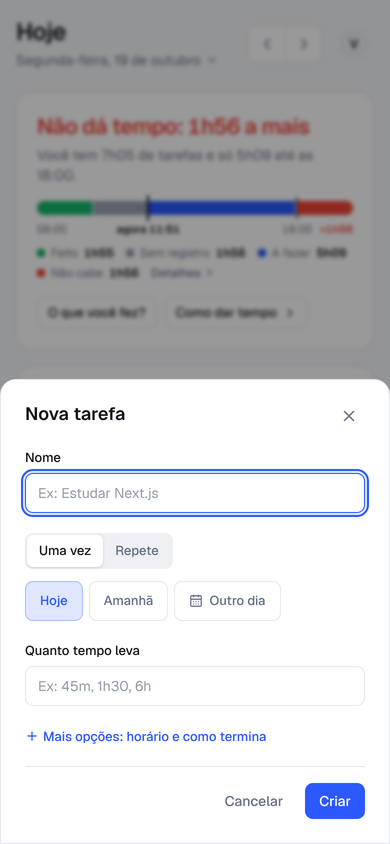
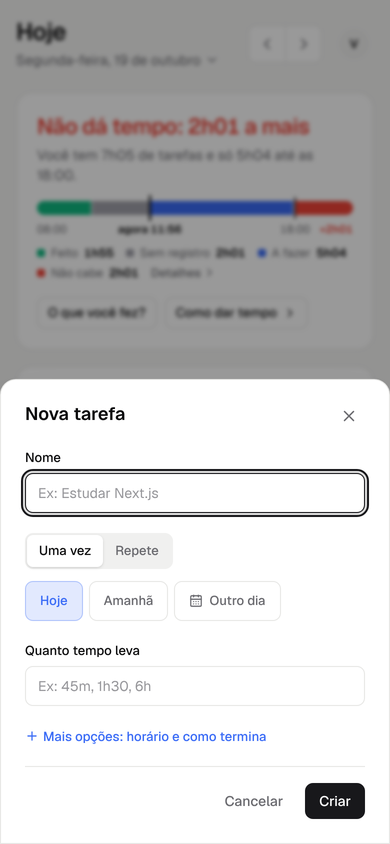
design: identidade Grafite (ações em preto, cor só para informação)
Claude-Session: https://claude.ai/code/session_011nKegygvConS1RQqhHr1hx

diff --git a/src/components/App.tsx b/src/components/App.tsx
@@ -157,7 +157,7 @@ export function Shell() {
         {collapsed ? (
           <button
             onClick={() => editTask({ repeat: "once", date })}
-            className="mt-6 grid h-10 w-10 place-items-center rounded-lg bg-brand text-white hover:bg-brand/90"
+            className="mt-6 grid h-10 w-10 place-items-center rounded-lg bg-brand text-brand-ink hover:bg-brand/90"
             aria-label="Nova tarefa"
             title="Nova tarefa"
           >
@@ -178,7 +178,7 @@ export function Shell() {
               className={cx(
                 "flex items-center gap-3 rounded-lg text-sm font-medium transition-colors",
                 collapsed ? "h-10 w-10 justify-center" : "w-full px-3 py-2",
-                isActive(t.id) ? "bg-todo/10 text-todo" : "text-muted hover:bg-sunken hover:text-ink",
+                isActive(t.id) ? "bg-sunken text-ink" : "text-muted hover:bg-sunken hover:text-ink",
               )}
             >
               <t.icon size={18} /> {!collapsed && t.label}
@@ -277,7 +277,7 @@ export function Shell() {
           className="flex flex-1 flex-col items-center gap-0.5 py-1 text-[11px] font-medium text-muted"
           aria-label="Nova tarefa"
         >
-          <span className="grid h-6 w-6 place-items-center rounded-full bg-brand text-white">
+          <span className="grid h-6 w-6 place-items-center rounded-full bg-brand text-brand-ink">
             <Plus size={16} strokeWidth={2.5} />
           </span>
           Nova
@@ -311,7 +311,7 @@ function LoadingSkeleton() {
 
 function MobileTab({ active, onClick, icon: Icon, label }: { active: boolean; onClick: () => void; icon: typeof Sun; label: string }) {
   return (
-    <button onClick={onClick} className={cx("flex flex-1 flex-col items-center gap-0.5 py-1 text-[11px] font-medium", active ? "text-todo" : "text-muted")}>
+    <button onClick={onClick} className={cx("flex flex-1 flex-col items-center gap-0.5 py-1 text-[11px] font-medium", active ? "text-ink" : "text-muted")}>
       <Icon size={20} />
       {label}
     </button>

diff --git a/src/components/FocusView.tsx b/src/components/FocusView.tsx
@@ -260,7 +260,7 @@ export function FocusView({ initialTaskId = "" }: { initialTaskId?: string }) {
         {!t ? (
           <button
             onClick={() => timer.start(taskId, mode)}
-            className="flex h-14 w-full items-center justify-center gap-2 rounded-full bg-brand text-base font-semibold text-white hover:bg-brand/90"
+            className="flex h-14 w-full items-center justify-center gap-2 rounded-full bg-brand text-base font-semibold text-brand-ink hover:bg-brand/90"
           >
             <Play size={15} fill="currentColor" /> Começar
           </button>
@@ -268,7 +268,7 @@ export function FocusView({ initialTaskId = "" }: { initialTaskId?: string }) {
           <div className="space-y-2">
             <button
               onClick={() => startWaiting(uid, settings)}
-              className="flex h-14 w-full items-center justify-center gap-2 rounded-full bg-brand text-base font-semibold text-white hover:bg-brand/90"
+              className="flex h-14 w-full items-center justify-center gap-2 rounded-full bg-brand text-base font-semibold text-brand-ink hover:bg-brand/90"
             >
               <Play size={15} fill="currentColor" /> {t.phase === "break" ? "Começar pausa" : "Começar foco"}
             </button>
@@ -295,7 +295,7 @@ export function FocusView({ initialTaskId = "" }: { initialTaskId?: string }) {
             <button onClick={() => timer.stop()} className="h-14 rounded-full border border-line bg-surface font-semibold hover:bg-sunken">
               Encerrar
             </button>
-            <button onClick={() => skipBreak(uid, settings)} className="h-14 rounded-full bg-brand font-semibold text-white hover:bg-brand/90">
+            <button onClick={() => skipBreak(uid, settings)} className="h-14 rounded-full bg-brand font-semibold text-brand-ink hover:bg-brand/90">
               Próximo foco
             </button>
           </div>

diff --git a/src/app/globals.css b/src/app/globals.css
@@ -1,39 +1,42 @@
 @import "tailwindcss";
 
 /*
+  Identidade "Grafite": ação em preto (brand), cor só para informação.
   Cores com significado fixo em todo o app:
-  feito = verde · falta = azul (também a cor de ação) · livre = hachurado · excesso = vermelho
+  feito = verde · falta = azul · livre = hachurado · excesso = vermelho · accent = links
 */
 :root {
-  --bg: #f6f7f9;
+  --bg: #f5f5f4;
   --surface: #ffffff;
-  --sunken: #eef0f4;
-  --ink: #12141a;
-  --muted: #667085;
-  --line: #e4e7ec;
-  --brand: #2b59ff;
+  --sunken: #f0f0ef;
+  --ink: #0c0c0d;
+  --muted: #6b6b70;
+  --line: #e7e7e5;
+  --brand: #18181b;
   --brand-ink: #ffffff;
-  --done: #12b76a;
-  --todo: #2b59ff;
-  --free: #d0d5dd;
+  --accent: #2f5fe8;
+  --done: #10b981;
+  --todo: #3b6cf6;
+  --free: #d4d4d8;
   --over: #f04438;
   --break: #f79009;
-  --idle: #98a2b3;
+  --idle: #a1a1aa;
 }
 
 @media (prefers-color-scheme: dark) {
   :root {
-    --bg: #0d0f14;
-    --surface: #161a22;
-    --sunken: #1d222c;
-    --ink: #eceef2;
-    --muted: #8b93a5;
-    --line: #262c38;
-    --brand: #5b7fff;
-    --brand-ink: #ffffff;
-    --done: #32d583;
-    --todo: #5b7fff;
-    --free: #3a4150;
+    --bg: #0e0e10;
+    --surface: #18181b;
+    --sunken: #222226;
+    --ink: #ededee;
+    --muted: #9a9aa2;
+    --line: #2c2c31;
+    --brand: #f4f4f5;
+    --brand-ink: #0c0c0d;
+    --accent: #7c9cff;
+    --done: #34d399;
+    --todo: #6b8cff;
+    --free: #3f3f46;
     --over: #f97066;
     --break: #fdb022;
     --idle: #5d6679;
@@ -49,6 +52,7 @@
   --color-line: var(--line);
   --color-brand: var(--brand);
   --color-brand-ink: var(--brand-ink);
+  --color-accent: var(--accent);
   --color-done: var(--done);
   --color-todo: var(--todo);
   --color-free: var(--free);

diff --git a/src/components/LogTimeForm.tsx b/src/components/LogTimeForm.tsx
@@ -76,7 +76,7 @@ export function LogTimeForm({ task, onClose }: { task: Task; onClose: () => void
         {task.estimateFor?.[date] !== undefined && (
           <p className="mt-2 text-xs text-muted">
             Encurtada só neste dia (normal {fmtMin(task.estimateMin)}).{" "}
-            <button onClick={() => setDayEstimate(uid, task, date, null)} className="font-medium text-brand hover:underline">
+            <button onClick={() => setDayEstimate(uid, task, date, null)} className="font-medium text-accent hover:underline">
               Voltar ao normal
             </button>
           </p>
@@ -156,13 +156,13 @@ export function LogTimeForm({ task, onClose }: { task: Task; onClose: () => void
             <div className="mb-5 grid grid-cols-2 gap-2">
               <button
                 onClick={() => start("stopwatch")}
-                className="flex h-14 items-center justify-center gap-2 rounded-xl bg-brand font-semibold text-white hover:bg-brand/90"
+                className="flex h-14 items-center justify-center gap-2 rounded-xl bg-brand font-semibold text-brand-ink hover:bg-brand/90"
               >
                 <Play size={15} fill="currentColor" /> Cronômetro
               </button>
               <button
                 onClick={() => start("pomodoro")}
-                className="flex h-14 items-center justify-center gap-2 rounded-xl border border-todo/40 font-semibold text-todo hover:bg-todo/[0.06]"
+                className="flex h-14 items-center justify-center gap-2 rounded-xl border border-line font-semibold text-ink hover:bg-sunken"
               >
                 <TimerIcon size={16} /> Pomodoro {settings.focusMin}min
               </button>

diff --git a/src/components/TasksPage.tsx b/src/components/TasksPage.tsx
@@ -136,7 +136,7 @@ function ScheduleCard() {
             {breaks && <span className="block">{breaks}</span>}
           </span>
         </span>
-        <span className="shrink-0 text-[13px] font-medium text-brand">Editar</span>
+        <span className="shrink-0 text-[13px] font-medium text-accent">Editar</span>
       </button>
       {editing && (
         <Modal
@@ -553,7 +553,7 @@ function QuickAdd({ placeholder, onAdd }: { placeholder: string; onAdd: (text: s
       <Plus size={16} className="shrink-0 text-todo" />
       <input value={text} onChange={(e) => setText(e.target.value)} placeholder={placeholder} aria-label={placeholder} className="h-9 min-w-0 flex-1 bg-transparent text-sm outline-none placeholder:text-muted" />
       {text.trim() && (
-        <button type="submit" className="h-8 shrink-0 rounded-full bg-brand px-3 text-[13px] font-semibold text-white">
+        <button type="submit" className="h-8 shrink-0 rounded-full bg-brand px-3 text-[13px] font-semibold text-brand-ink">
           Criar
         </button>
       )}

diff --git a/src/components/CapacityPanel.tsx b/src/components/CapacityPanel.tsx
@@ -225,7 +225,7 @@ export function DayBudget({ m }: { m: DayMetrics }) {
               {custom && ` · alterado só ${where}`}
               {" · "}
               <button
-                className="font-medium text-brand hover:underline"
+                className="font-medium text-accent hover:underline"
                 onClick={() => {
                   setDraft(m.window ?? { start: "08:00", end: "18:00" });
                   setEditing(true);
@@ -372,7 +372,7 @@ function FillGapDialog({ m, onClose }: { m: DayMetrics; onClose: () => void }) {
                   </span>
                 </span>
                 {left > 0 && v === 0 && (
-                  <button onClick={() => set(i.task.id, left)} className="shrink-0 text-xs font-medium text-brand hover:underline">
+                  <button onClick={() => set(i.task.id, left)} className="shrink-0 text-xs font-medium text-accent hover:underline">
                     Tudo aqui
                   </button>
                 )}

diff --git a/src/components/TimerStart.tsx b/src/components/TimerStart.tsx
@@ -46,7 +46,7 @@ export function TimerStart({ className }: { className?: string }) {
           className="tabular h-8 rounded-md border border-brand bg-surface px-2 font-semibold text-ink outline-none"
           aria-label="Hora em que começou"
         />
-        <button type="submit" className="font-semibold text-brand hover:underline">
+        <button type="submit" className="font-semibold text-accent hover:underline">
           Salvar
         </button>
         <button type="button" onClick={() => setEditing(false)} className="text-muted hover:text-ink">
@@ -67,7 +67,7 @@ export function TimerStart({ className }: { className?: string }) {
           setValue(started);
           setEditing(true);
         }}
-        className="font-medium text-brand hover:underline"
+        className="font-medium text-accent hover:underline"
       >
         Mudar
       </button>

diff --git a/src/components/TaskRow.tsx b/src/components/TaskRow.tsx
@@ -100,7 +100,7 @@ export function TaskRow({ task, date, estimateMin, doneMin, completed, skipped, 
           onClick={() => (running ? timer.stop() : timer.start(task.id, settings.lastTimerMode ?? "stopwatch"))}
           className={cx(
             "mr-2 grid h-10 w-10 shrink-0 place-items-center rounded-full transition-colors",
-            running ? "bg-todo text-white hover:bg-todo/85" : "border border-line text-muted hover:border-todo hover:bg-todo hover:text-white",
+            running ? "bg-todo text-white hover:bg-todo/85" : "border border-line text-muted hover:border-brand hover:bg-brand hover:text-brand-ink",
           )}
           aria-label={running ? "Parar e registrar" : "Começar timer nesta tarefa"}
           title={running ? "Parar e registrar" : settings.lastTimerMode === "pomodoro" ? "Começar pomodoro" : "Começar cronômetro"}

diff --git a/src/components/DaySidebar.tsx b/src/components/DaySidebar.tsx
@@ -181,7 +181,7 @@ function LateBanner({ tasks, date }: { tasks: Task[]; date: string }) {
             <li key={t.id} className="flex items-center gap-3 text-sm">
               <span className="min-w-0 flex-1 truncate">{t.title}</span>
               <span className="tabular shrink-0 text-xs text-muted">{fmtMin(t.estimateMin)}</span>
-              <button onClick={() => bring([t])} className="shrink-0 text-[13px] font-medium text-brand hover:underline">
+              <button onClick={() => bring([t])} className="shrink-0 text-[13px] font-medium text-accent hover:underline">
                 Hoje
               </button>
             </li>

diff --git a/src/components/AccountMenu.tsx b/src/components/AccountMenu.tsx
@@ -80,7 +80,7 @@ export function AccountMenu({ onHelp, variant }: { onHelp: () => void; variant: 
                 </span>
               </span>
               {perm === "default" && (
-                <button onClick={() => Notification.requestPermission().then(setPerm)} className="shrink-0 rounded-full bg-brand px-3 py-1.5 text-[13px] font-semibold text-white">
+                <button onClick={() => Notification.requestPermission().then(setPerm)} className="shrink-0 rounded-full bg-brand px-3 py-1.5 text-[13px] font-semibold text-brand-ink">
                   Ativar
                 </button>
               )}

diff --git a/src/components/TimeEntries.tsx b/src/components/TimeEntries.tsx
@@ -321,7 +321,7 @@ function EntryRow({ s, showTask }: { s: Session; showTask?: boolean }) {
           <span className="block text-xs text-muted">
             {showTask && <span className="tabular">{when} · </span>}
             {sessionSource(s)}
-            {showTask && !s.taskId && <span className="ml-2 font-medium text-brand">Escolher tarefa</span>}
+            {showTask && !s.taskId && <span className="ml-2 font-medium text-accent">Escolher tarefa</span>}
           </span>
         </span>
         <span className="tabular shrink-0 self-start font-semibold">{fmtMin(s.minutes)}</span>

diff --git a/src/app/manifest.ts b/src/app/manifest.ts
@@ -7,8 +7,8 @@ export default function manifest(): MetadataRoute.Manifest {
     description: "Quanto cabe no seu dia, quanto já foi feito e quanto ainda sobra.",
     start_url: "/",
     display: "standalone",
-    background_color: "#f6f7f9",
-    theme_color: "#f6f7f9",
+    background_color: "#f5f5f4",
+    theme_color: "#f5f5f4",
     icons: [{ src: "/icon.svg", sizes: "any", type: "image/svg+xml" }],
   };
 }
